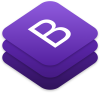
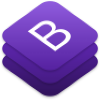
remove min height of me and replace bs image

diff --git a/index.html b/index.html
@@ -90,8 +90,7 @@
 				<div class="col-md-6" data-aos="slide-up" data-aos-offset="50" data-aos-delay="30"
 					data-aos-duration="1000" data-aos-easing="ease-out-cubic" data-aos-mirror="true" data-aos-once="true">
 					<div class="p-xl-5 m-xl-5 p-5 m-2 ">
-						<img class="rounded-circle bg-dark img-fluid"
-							style="min-height: 250px; min-width: 250px ;" src="assets/pictures/me1.1.png"
+						<img class="rounded-circle bg-dark img-fluid" src="assets/pictures/me1.1.png"
 							alt="Alvalen"></div>
 				</div>
 				<div class="col-md-6 text-center text-md-start d-flex d-sm-flex d-md-flex justify-content-center align-items-center justify-content-md-start align-items-md-center justify-content-xl-center"
